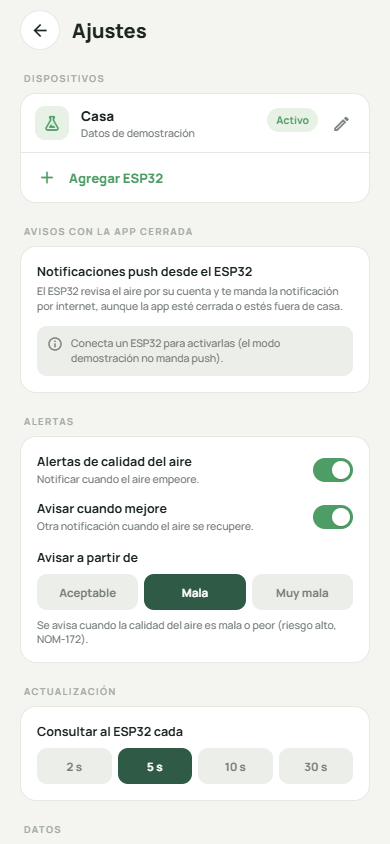
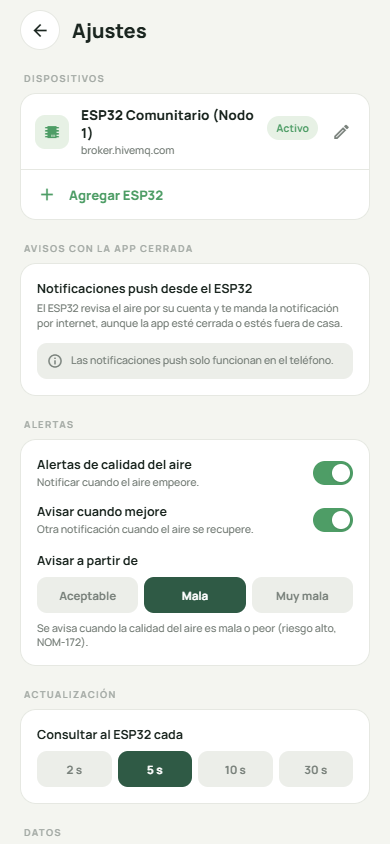
feat(app): reemplazar guia http por telemetria mqtt y agregar tarjeta normativa nom-172

diff --git a/app/src/componentes/Resumen.tsx b/app/src/componentes/Resumen.tsx
@@ -55,11 +55,27 @@ export function Resumen({ alAbrirAjustes }: { alAbrirAjustes: () => void }) {
       <Principal />
       <FilaMetricas />
       {m.metrica === 'aire' ? <AnalisisAire /> : null}
+      <TarjetaNormativa />
       <TarjetaGrafica />
       <TarjetaAlertas />
-      <BotonSimular />
       <PieEstado alAbrirAjustes={alAbrirAjustes} />
     </ScrollView>
+  );
+}
+
+function TarjetaNormativa() {
+  return (
+    <Tarjeta radio={16} fondo={Paleta.superficie}>
+      <View style={estilos.filaCentro}>
+        <Icono nombre="information-outline" tam={18} color={Paleta.verde} />
+        <T t={12} f="extra" style={{ marginLeft: 6 }}>
+          Criterio Normativo NOM-172-SEMARNAT-2023
+        </T>
+      </View>
+      <T t={10.5} c={Paleta.textoSuave} style={{ marginTop: 6, lineHeight: 16 }}>
+        La norma oficial exige evaluar promedios móviles (12 h para partículas PM2.5 y 8 h para monóxido de carbono). En este prototipo se aplican umbrales instantáneos validados para respuesta inmediata y alertamiento en tiempo real ante eventos críticos.
+      </T>
+    </Tarjeta>
   );
 }
 
@@ -420,25 +436,7 @@ function TarjetaAlertas() {
 }
 
 function BotonSimular() {
-  const m = useMonitor();
-  const toast = useToast();
-  return (
-    <Pressable
-      disabled={m.simulando}
-      accessibilityRole="button"
-      onPress={async () => {
-        const permiso = await m.simularAlerta();
-        if (!permiso) {
-          toast('Alerta simulada. Para verla también como notificación, permite las notificaciones de la app.');
-        }
-      }}
-      style={({ pressed }) => [estilos.simular, { opacity: pressed ? 0.6 : 1 }]}
-    >
-      <T t={11} f="negrita" c={Paleta.textoSuave}>
-        {m.simulando ? 'Simulación en curso…' : 'Simular alerta de aire'}
-      </T>
-    </Pressable>
-  );
+  return null;
 }
 
 /** Línea de estado al pie: origen de los datos y antigüedad de la lectura. */

diff --git a/app/src/app/ajustes.tsx b/app/src/app/ajustes.tsx
@@ -354,15 +354,12 @@ function Opciones({
   );
 }
 
-const EJEMPLO = `{
-  "temperatura": 24.1,
-  "humedad": 58,
-  "pm25": 8.4,
-  "pm10": 15,
-  "co2": 612,
-  "co": 0.3,
-  "cov": 0.18,
-  "no2": 14
+const EJEMPLO_MQTT = `{
+  "pm25": 12.0,
+  "co": 0.35,
+  "temp": 24.5,
+  "hum": 52.0,
+  "estado": "BUENA"
 }`;
 
 function GuiaEsp32() {
@@ -370,24 +367,24 @@ function GuiaEsp32() {
   return (
     <Tarjeta radio={16}>
       <T t={11} c={Paleta.textoSuave} style={{ lineHeight: 17 }}>
-        1. Conecta el ESP32 y el teléfono a la misma red Wi-Fi.{'\n'}
-        2. Carga el programa de la carpeta esp32/ del proyecto; en el Monitor Serie verás su IP.{'\n'}
-        3. Toca "Agregar ESP32", escribe esa IP y prueba la conexión.
+        1. El ESP32 se conecta a Wi-Fi mediante WiFiManager.{'\n'}
+        2. Transmite en tiempo real al Broker MQTT público (broker.hivemq.com:1883).{'\n'}
+        3. Esta App se suscribe al tópico mediante WebSockets (puerto 8884).
       </T>
       <T t={11} f="negrita" style={{ marginTop: 12, marginBottom: 6 }}>
-        La app consulta:
+        Tópico MQTT de Telemetría:
       </T>
       <View style={estilos.codigo}>
         <T selectable t={11} style={{ fontFamily: mono }}>
-          GET http://&lt;IP-del-ESP32&gt;/api/lecturas
+          colectivo/aire/nodo1
         </T>
       </View>
       <T t={11} c={Paleta.textoSuave} style={{ marginTop: 8, marginBottom: 6, lineHeight: 17 }}>
-        y espera un JSON como este (los campos que falten se muestran como "—"):
+        Payload JSON recibido en vivo:
       </T>
       <View style={estilos.codigo}>
         <T selectable t={11} style={{ fontFamily: mono, lineHeight: 16 }}>
-          {EJEMPLO}
+          {EJEMPLO_MQTT}
         </T>
       </View>
     </Tarjeta>

diff --git a/app/src/modelos/ajustes.ts b/app/src/modelos/ajustes.ts
@@ -28,16 +28,16 @@ export interface Ajustes {
 }
 
 export const DISPOSITIVO_DEMO: Dispositivo = {
-  id: 'demo',
-  nombre: 'Casa',
-  direccion: '',
-  demo: true,
+  id: 'nodo1',
+  nombre: 'ESP32 Comunitario (Nodo 1)',
+  direccion: 'broker.hivemq.com',
+  demo: false,
 };
 
 export function ajustesPorDefecto(): Ajustes {
   return {
     dispositivos: [DISPOSITIVO_DEMO],
-    activoId: 'demo',
+    activoId: 'nodo1',
     alertasActivas: true,
     umbralNivel: 2,
     avisarMejora: true,
